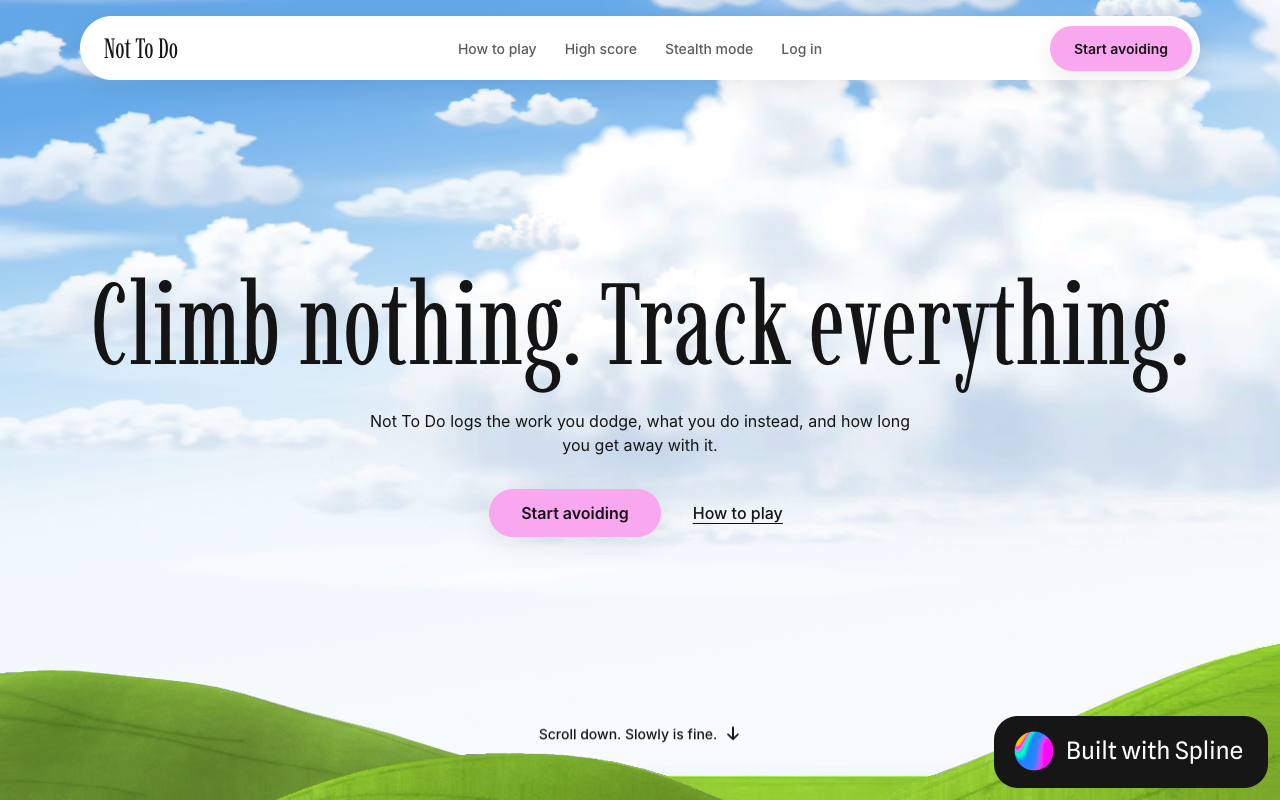
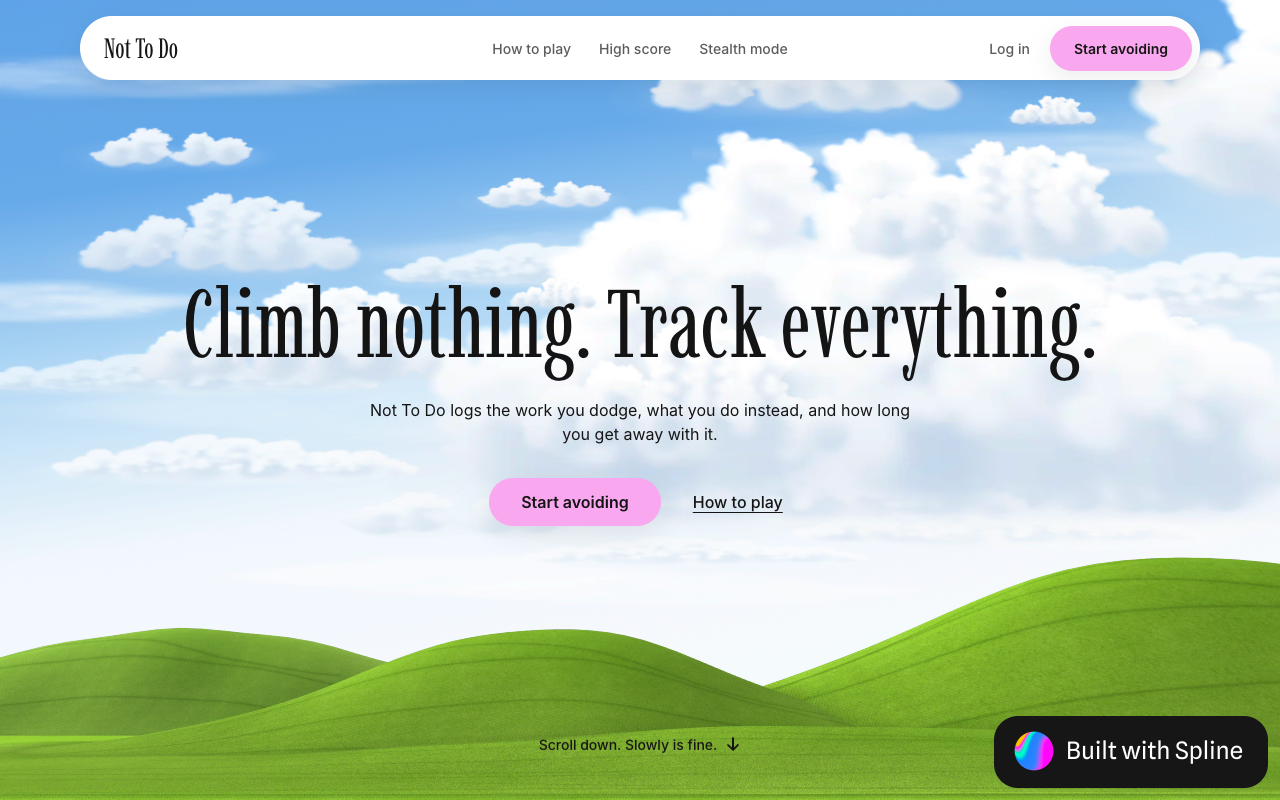
Hero headline: fixed size (96px, 44px on phones), no scaling with screen width

diff --git a/src/styles/sections/hero.css b/src/styles/sections/hero.css
@@ -19,9 +19,12 @@
   gap: var(--space-5);
   width: min(100%, var(--content-max)); /* as wide as the header pill */
 }
-/* Headline: the frame is as wide as the header and follows the screen width; the text keeps the
-   title size (--text-title-xl) and wraps inside the frame. */
-.hero__title { width: 100%; }
+/* Headline: the frame is as wide as the header and follows the screen width. The text size is fixed
+   (does not scale with the screen): 44px on phones, 96px from tablet up. It wraps inside the frame. */
+.hero__title { width: 100%; font-size: var(--text-hero-title-phone); }
+@media (min-width: 768px) {
+  .hero__title { font-size: var(--text-hero-title); }
+}
 .hero__sub { max-width: var(--measure-sub); font-size: var(--text-body); text-wrap: pretty; }
 .hero__actions {
   display: flex;

diff --git a/src/styles/tokens.css b/src/styles/tokens.css
@@ -22,6 +22,8 @@
   /* Type scale (fluid between phone and desktop) */
   --text-display: clamp(3.5rem, 1rem + 11vw, 12rem);     /* intro parts */
   --text-title-xl: clamp(2.75rem, 1.5rem + 5vw, 6rem);   /* intro line 2, H1, high score */
+  --text-hero-title: 6rem;                 /* hero H1, tablet and up: fixed 96px, does not scale with the screen */
+  --text-hero-title-phone: 2.75rem;        /* hero H1 on phones (under 768): fixed 44px */
   --text-title-l: clamp(2rem, 1.2rem + 3vw, 4rem);       /* H2 */
   --text-title-s: clamp(1.25rem, 1rem + 1vw, 1.75rem);   /* intro line 1 */
   --text-body-l: 1.25rem;

diff --git a/design/decisions.md b/design/decisions.md
@@ -167,3 +167,7 @@
 - Undone: the headline no longer grows to fill the header (Oksana: "text size should not be adaptive, only text frame width"). Removed --text-hero-title and --size-header-width.
 - The headline frame is as wide as the header pill at every screen width (measured: identical edges at 1440, 1088, 768, 390). The text uses the title size from the type scale (--text-title-xl, 96px on desktop) and wraps inside the frame when it does not fit (one line from 768 up, two lines on phones).
 - Note: --text-title-xl is itself a fluid token from the start of the project (44px on phones up to 96px at about 1440). A single fixed size would be a type-scale change; not done.
+
+## 2026-11-17 · Hero headline: fixed size
+- The hero H1 no longer scales with the screen (Oksana). New tokens: --text-hero-title 96px (768 and up) and --text-hero-title-phone 44px (under 768). Measured: 96px at 1440, 1280, 1088 and 768; 44px at 390. It wraps inside the header-wide frame (one line from about 960 wide, two lines at 768 and on phones).
+- --text-title-xl (fluid) is unchanged and still used by the intro; only the hero H1 moved to the fixed tokens.
